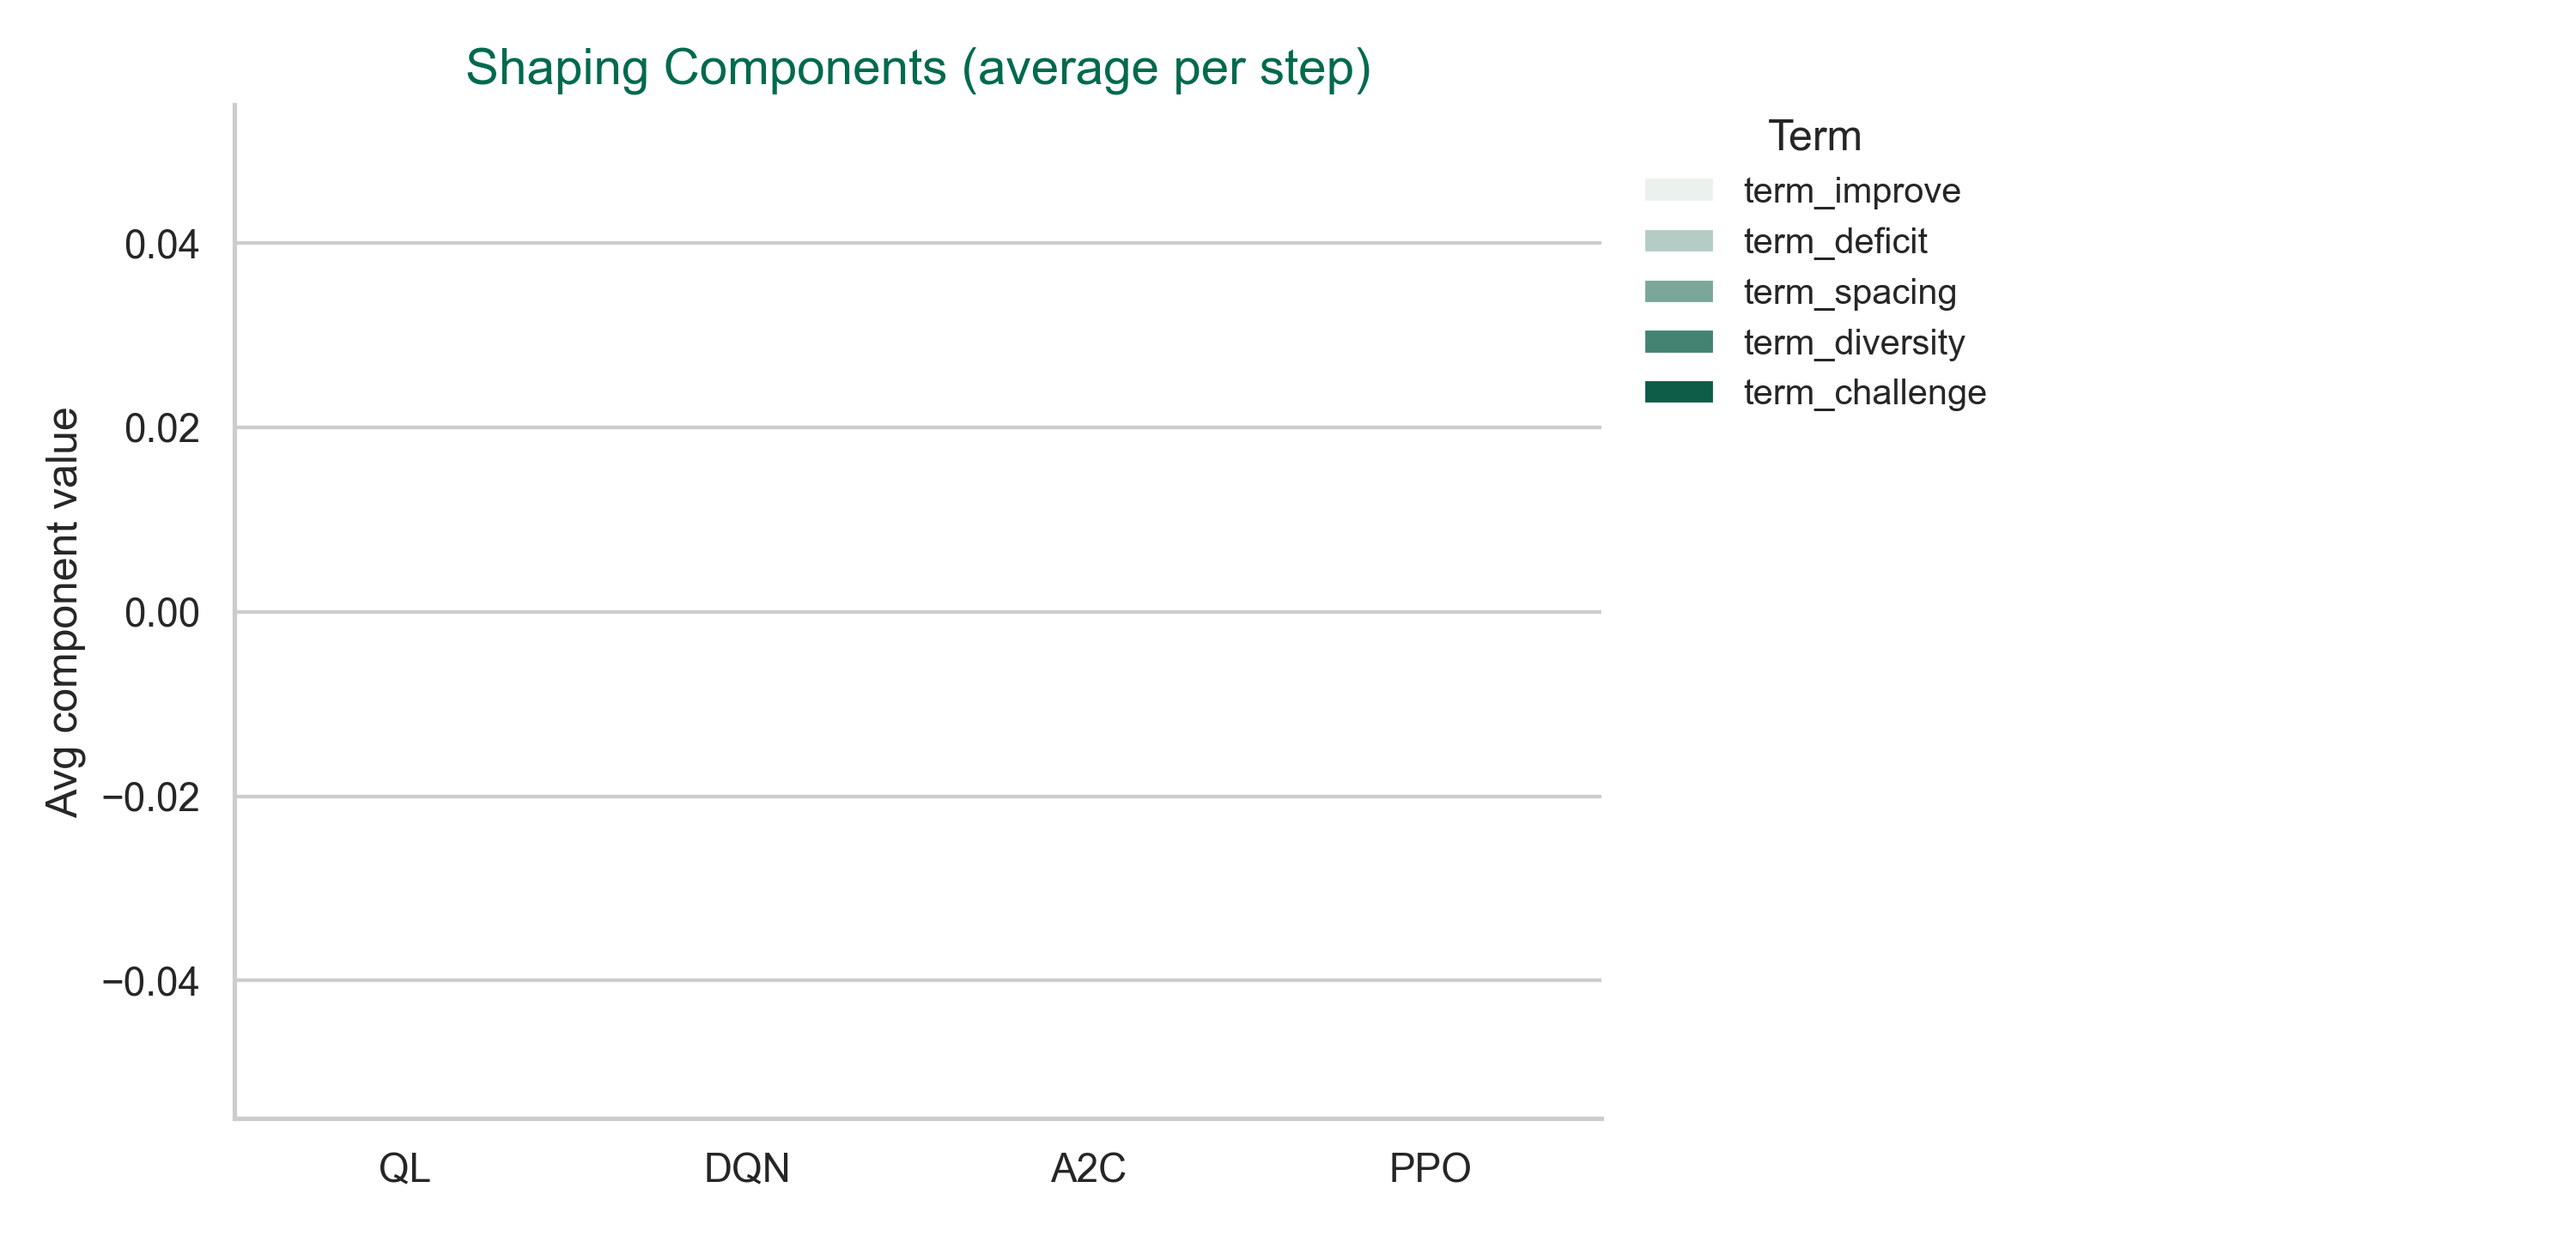
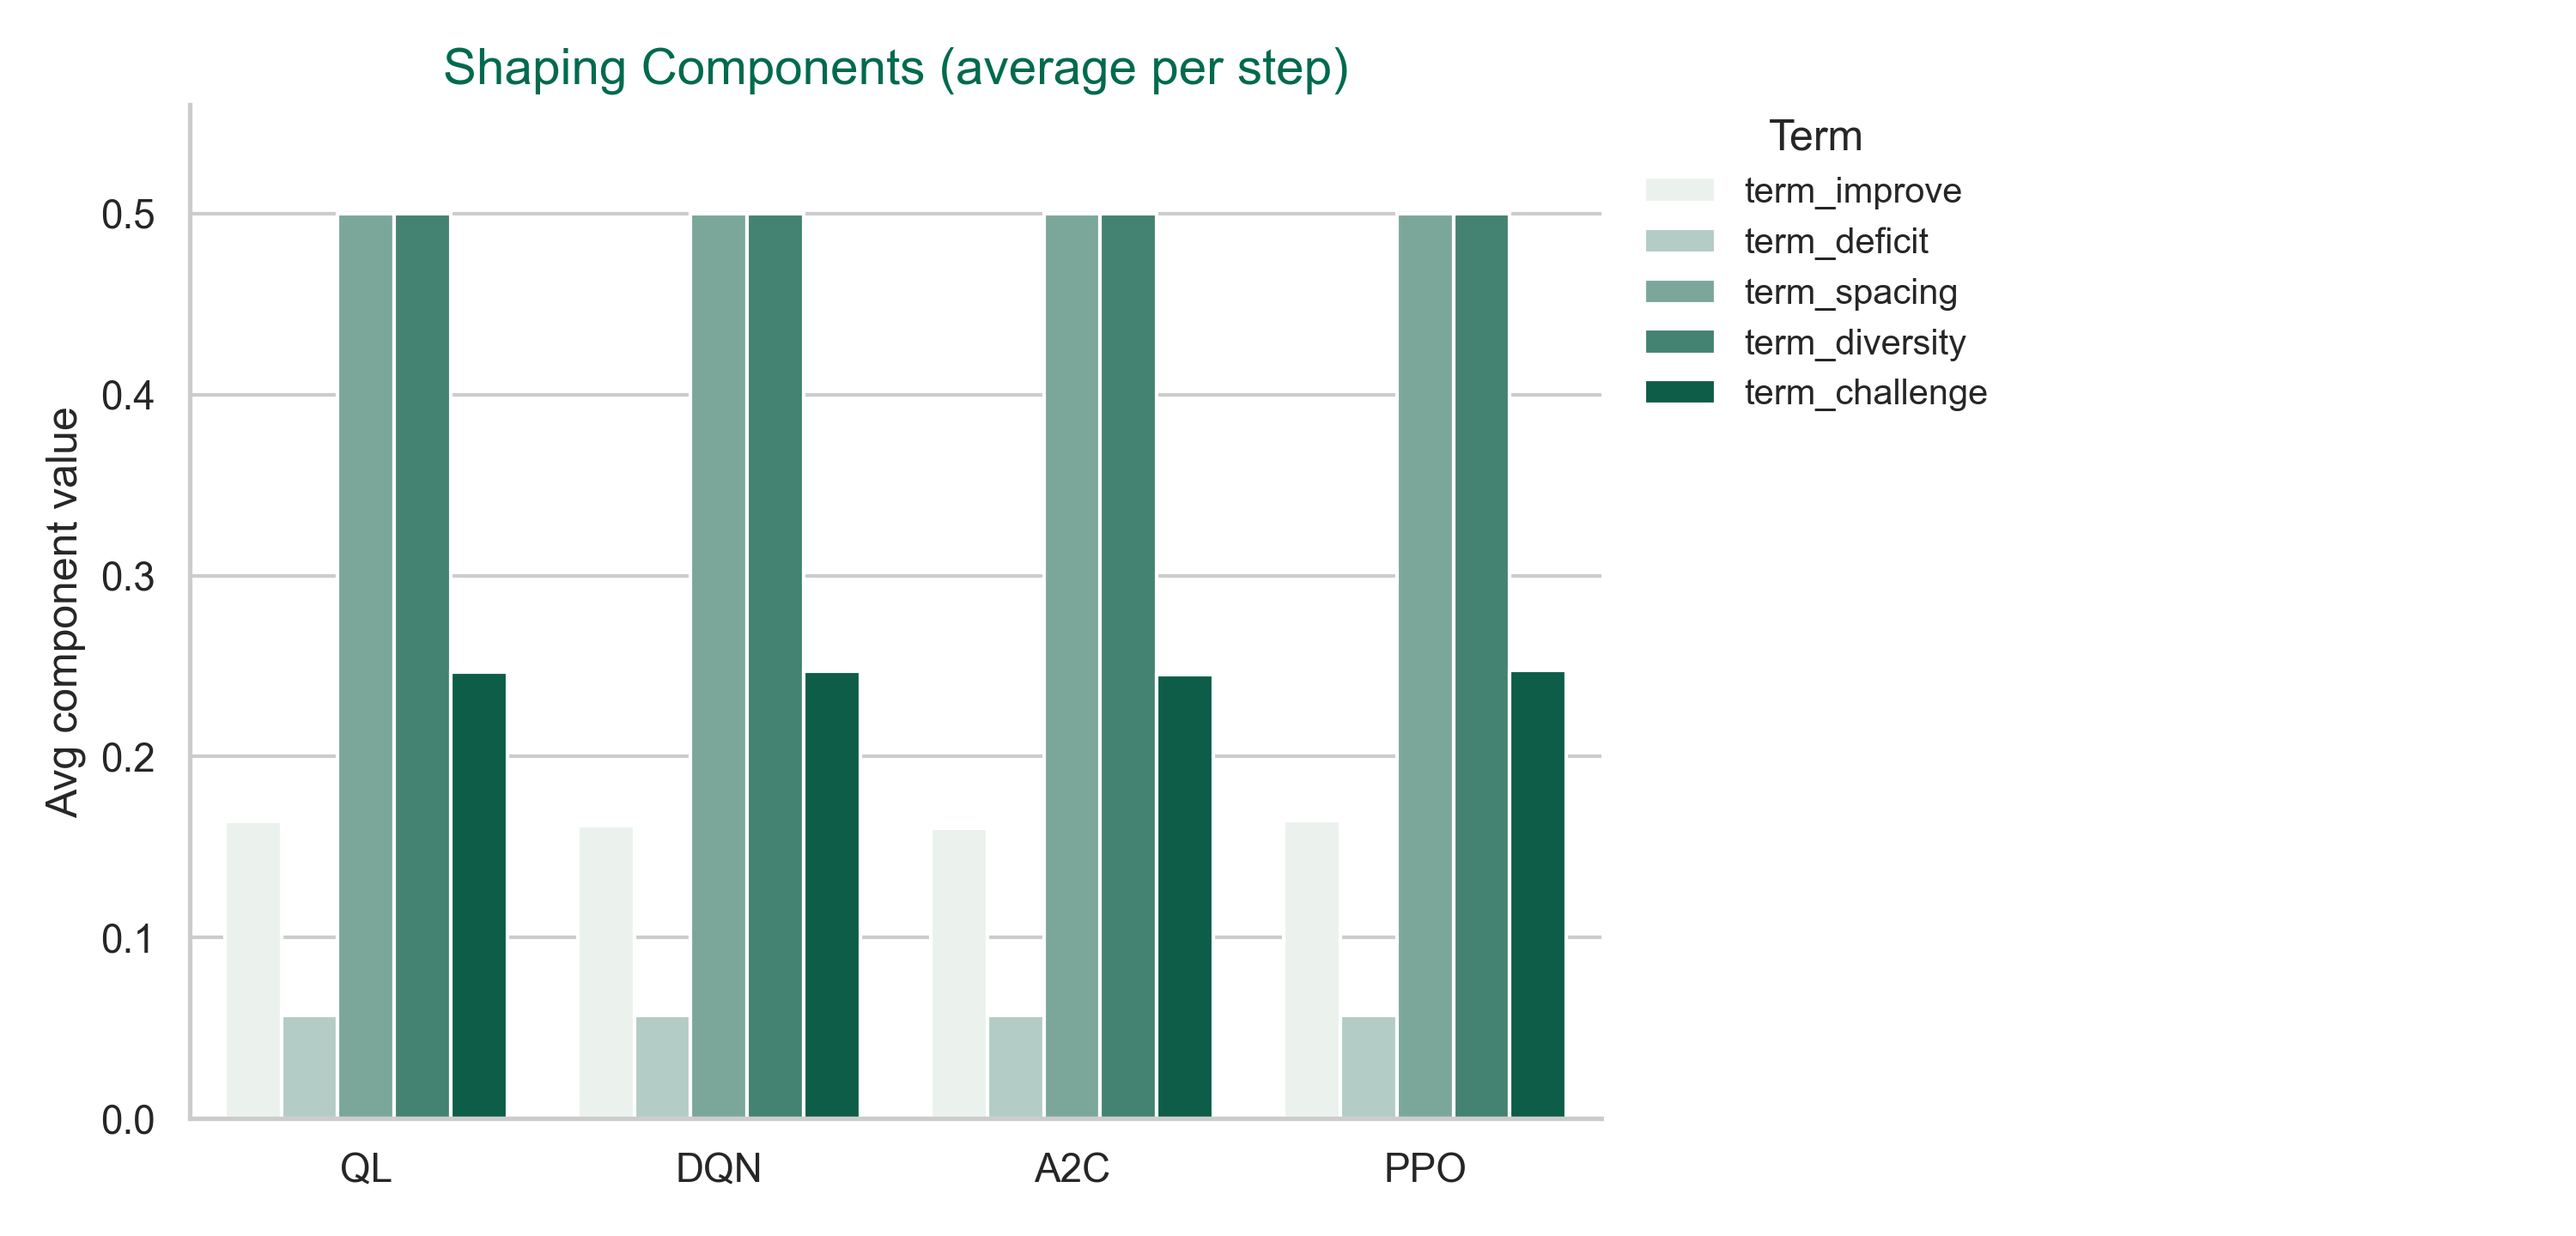
made changes

diff --git a/curriculum_sequencing_rl/plot_poster.py b/curriculum_sequencing_rl/plot_poster.py
@@ -124,20 +124,53 @@ def _select_per_model(df: pd.DataFrame, models: List[str], strategy: str = "late
     # Helper for grouping selection
     def _pick(group: pd.DataFrame) -> pd.DataFrame:
         g = group.copy()
-        # Prefer aggregates if present
+        # For bar plots we want rows that actually have values (avoid NaNs from aggregates)
+        value_cols = [c for c in [
+            "reward", "vpr", "regret_ratio",
+            "hybrid_base_share_pct", "hybrid_mastery_share_pct", "hybrid_motivation_share_pct",
+            "reward_base_contrib", "reward_mastery", "reward_motivation",
+            "term_improve", "term_deficit", "term_spacing", "term_diversity", "term_challenge",
+        ] if c in g.columns]
+
+        g_pref = g
+        if value_cols:
+            mask_non_na = g[value_cols].notna().any(axis=1)
+            if mask_non_na.any():
+                g_pref = g[mask_non_na].copy()
+
+        # Prefer base variant if available among preferred rows
+        if "variant" in g_pref.columns and (g_pref["variant"].astype(str) == "base").any():
+            g_pref = g_pref[g_pref["variant"].astype(str) == "base"].copy()
+
+        # Strategy-based pick on preferred subset first
+        cand = g_pref if not g_pref.empty else g
+        if "timestamp" in cand.columns:
+            cand["__ts_key"] = cand["timestamp"].astype(str).map(_coerce_timestamp)
+        if strategy == "latest" and "__ts_key" in cand.columns:
+            return cand.loc[[cand["__ts_key"].idxmax()]]
+        elif strategy == "max_reward" and "reward" in cand.columns:
+            # Choose from rows that have reward if possible
+            if value_cols and "reward" in value_cols:
+                cand_r = cand[cand["reward"].notna()]
+                if not cand_r.empty:
+                    return cand_r.loc[[cand_r["reward"].idxmax()]]
+            return cand.loc[[cand["reward"].idxmax()]] if not cand.empty else g.tail(1)
+        elif strategy == "min_regret" and "regret_ratio" in cand.columns:
+            cand_rr = cand[cand["regret_ratio"].notna()]
+            if not cand_rr.empty:
+                return cand_rr.loc[[cand_rr["regret_ratio"].idxmin()]]
+            return cand.loc[[cand["regret_ratio"].idxmin()]] if not cand.empty else g.tail(1)
+
+        # If nothing matched and aggregates exist, fallback to aggregate row
         if "variant" in g.columns and (g["variant"].astype(str) == "aggregate").any():
-            g = g[g["variant"].astype(str) == "aggregate"].copy()
-        # Strategy-based pick
-        if "timestamp" in g.columns:
-            g["__ts_key"] = g["timestamp"].astype(str).map(_coerce_timestamp)
-        if strategy == "latest" and "__ts_key" in g.columns:
-            return g.loc[[g["__ts_key"].idxmax()]]
-        elif strategy == "max_reward" and "reward" in g.columns:
-            return g.loc[[g["reward"].idxmax()]]
-        elif strategy == "min_regret" and "regret_ratio" in g.columns:
-            return g.loc[[g["regret_ratio"].idxmin()]]
-        # Fallback: last row
-        return g.tail(1)
+            g_agg = g[g["variant"].astype(str) == "aggregate"].copy()
+            if "timestamp" in g_agg.columns:
+                g_agg["__ts_key"] = g_agg["timestamp"].astype(str).map(_coerce_timestamp)
+                return g_agg.loc[[g_agg["__ts_key"].idxmax()]]
+            return g_agg.tail(1)
+
+        # Final fallback: last available row
+        return cand.tail(1) if not cand.empty else g.tail(1)
 
     picked = (
         sub.sort_index()
